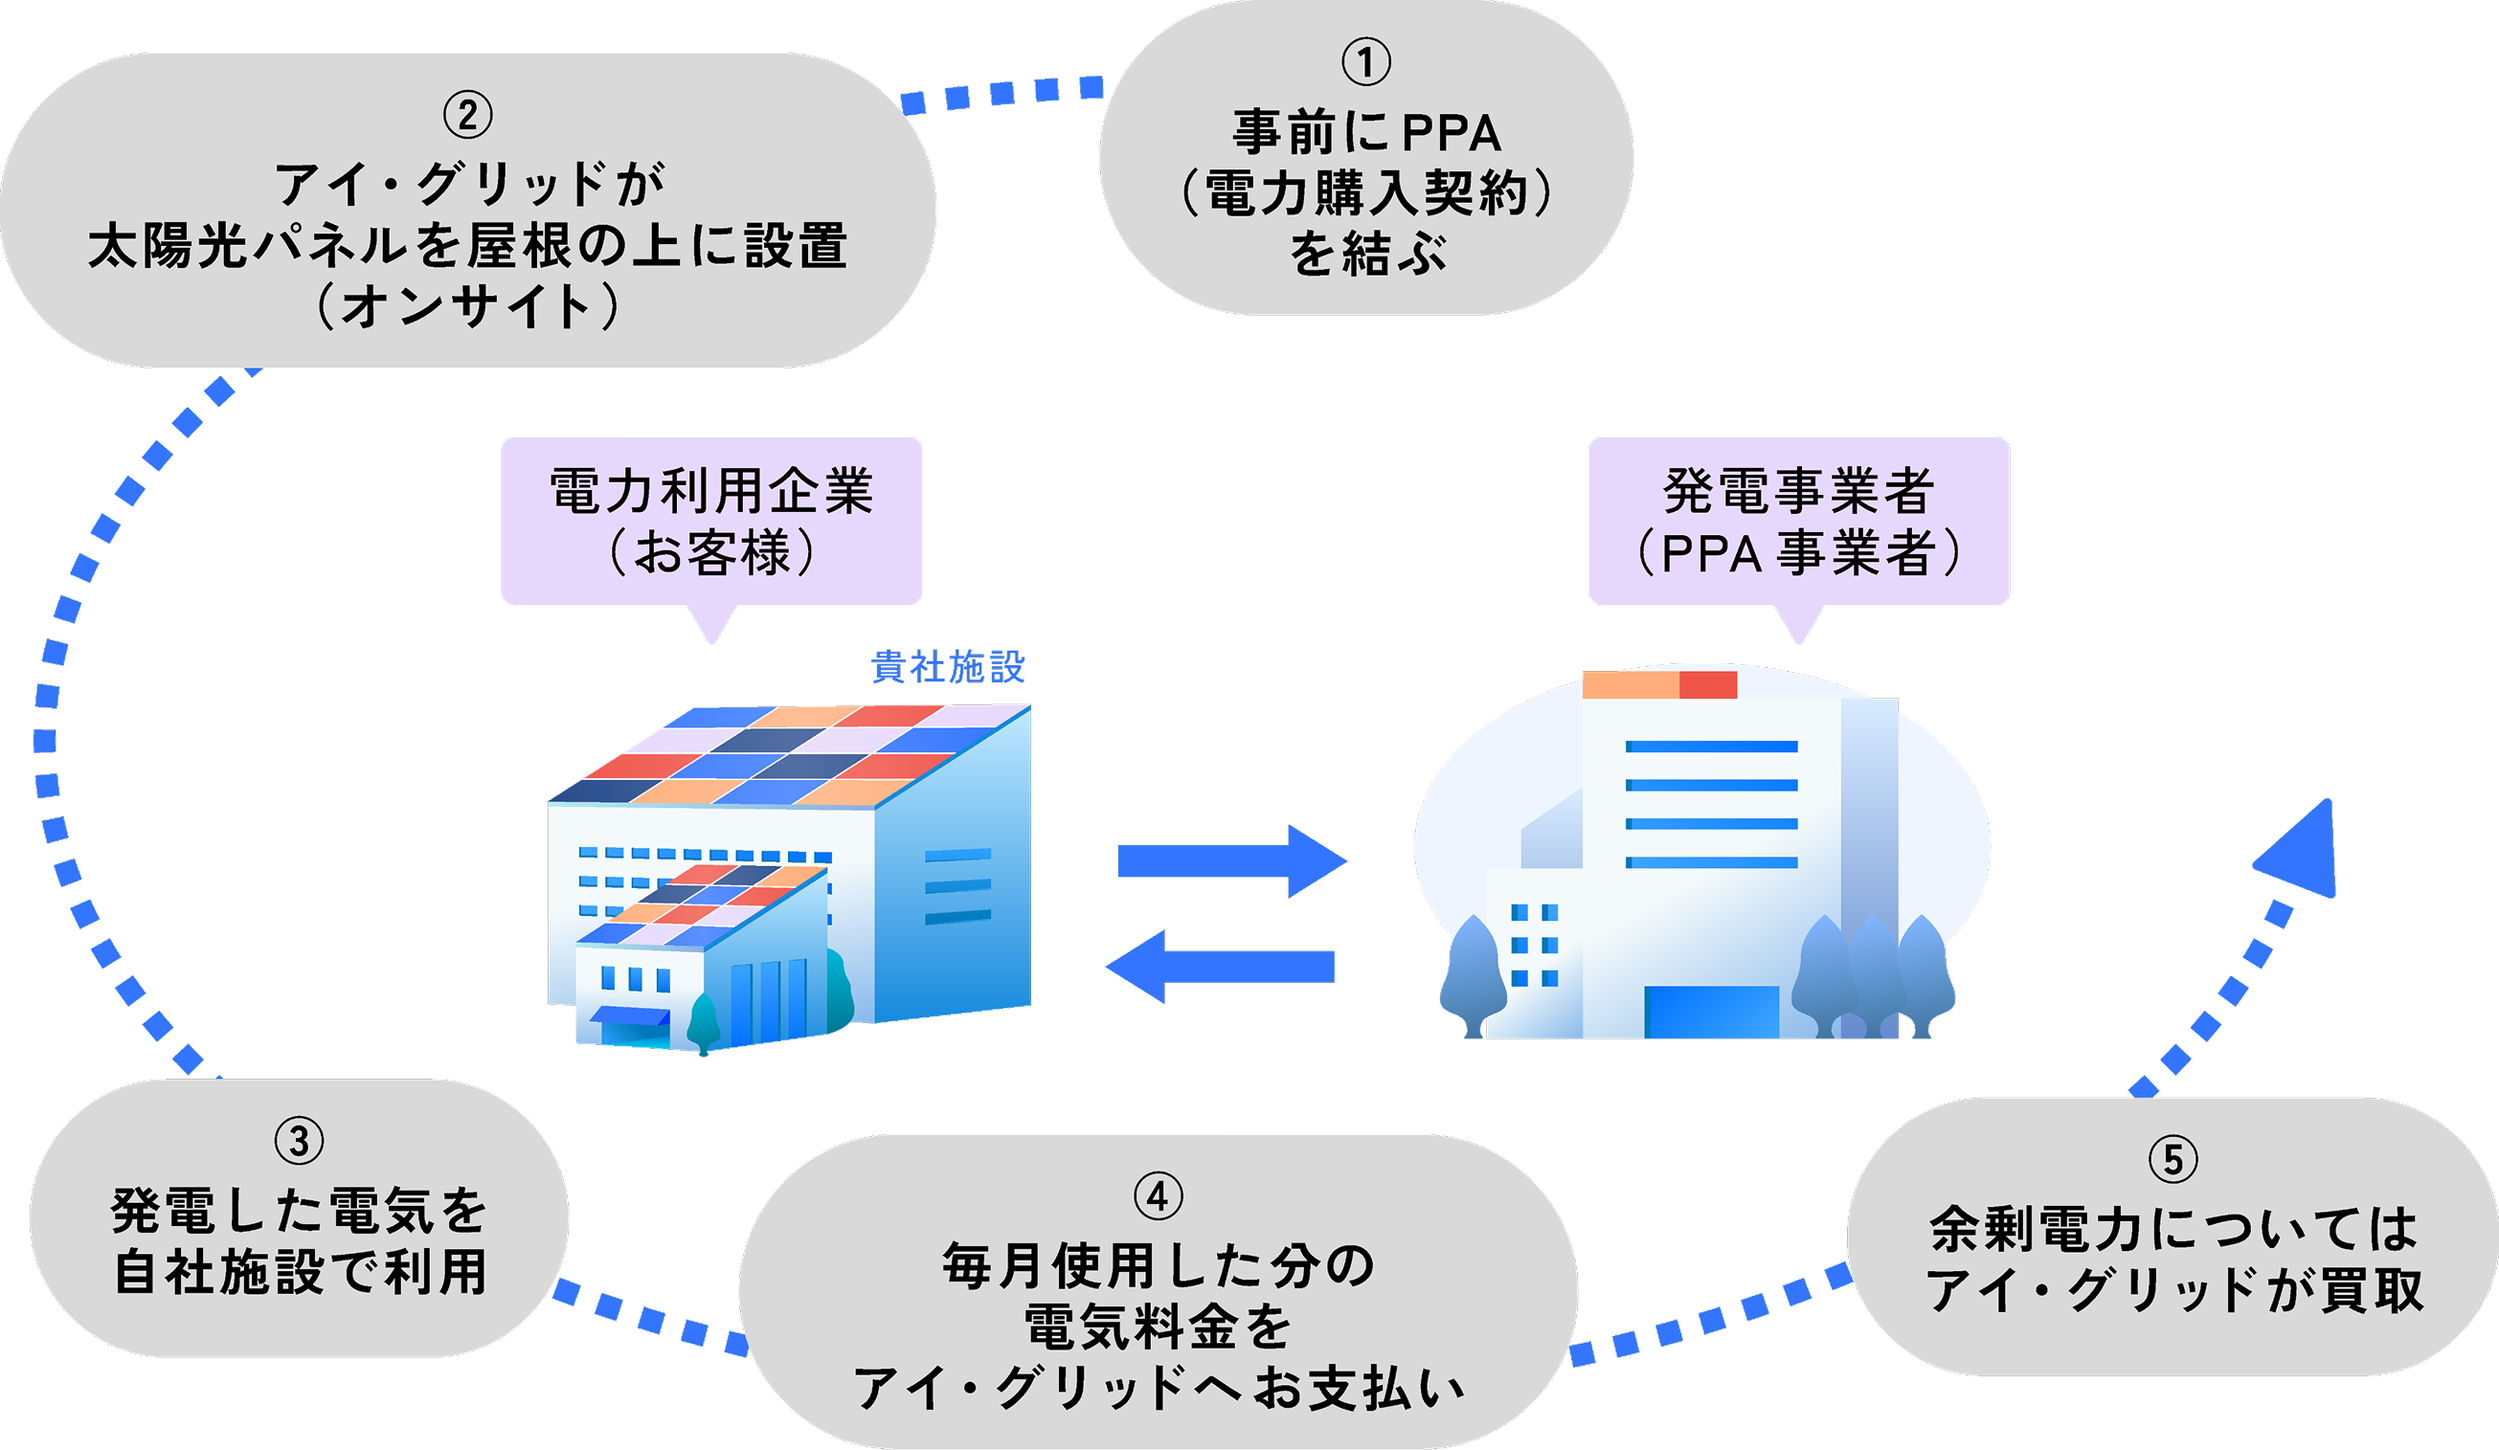
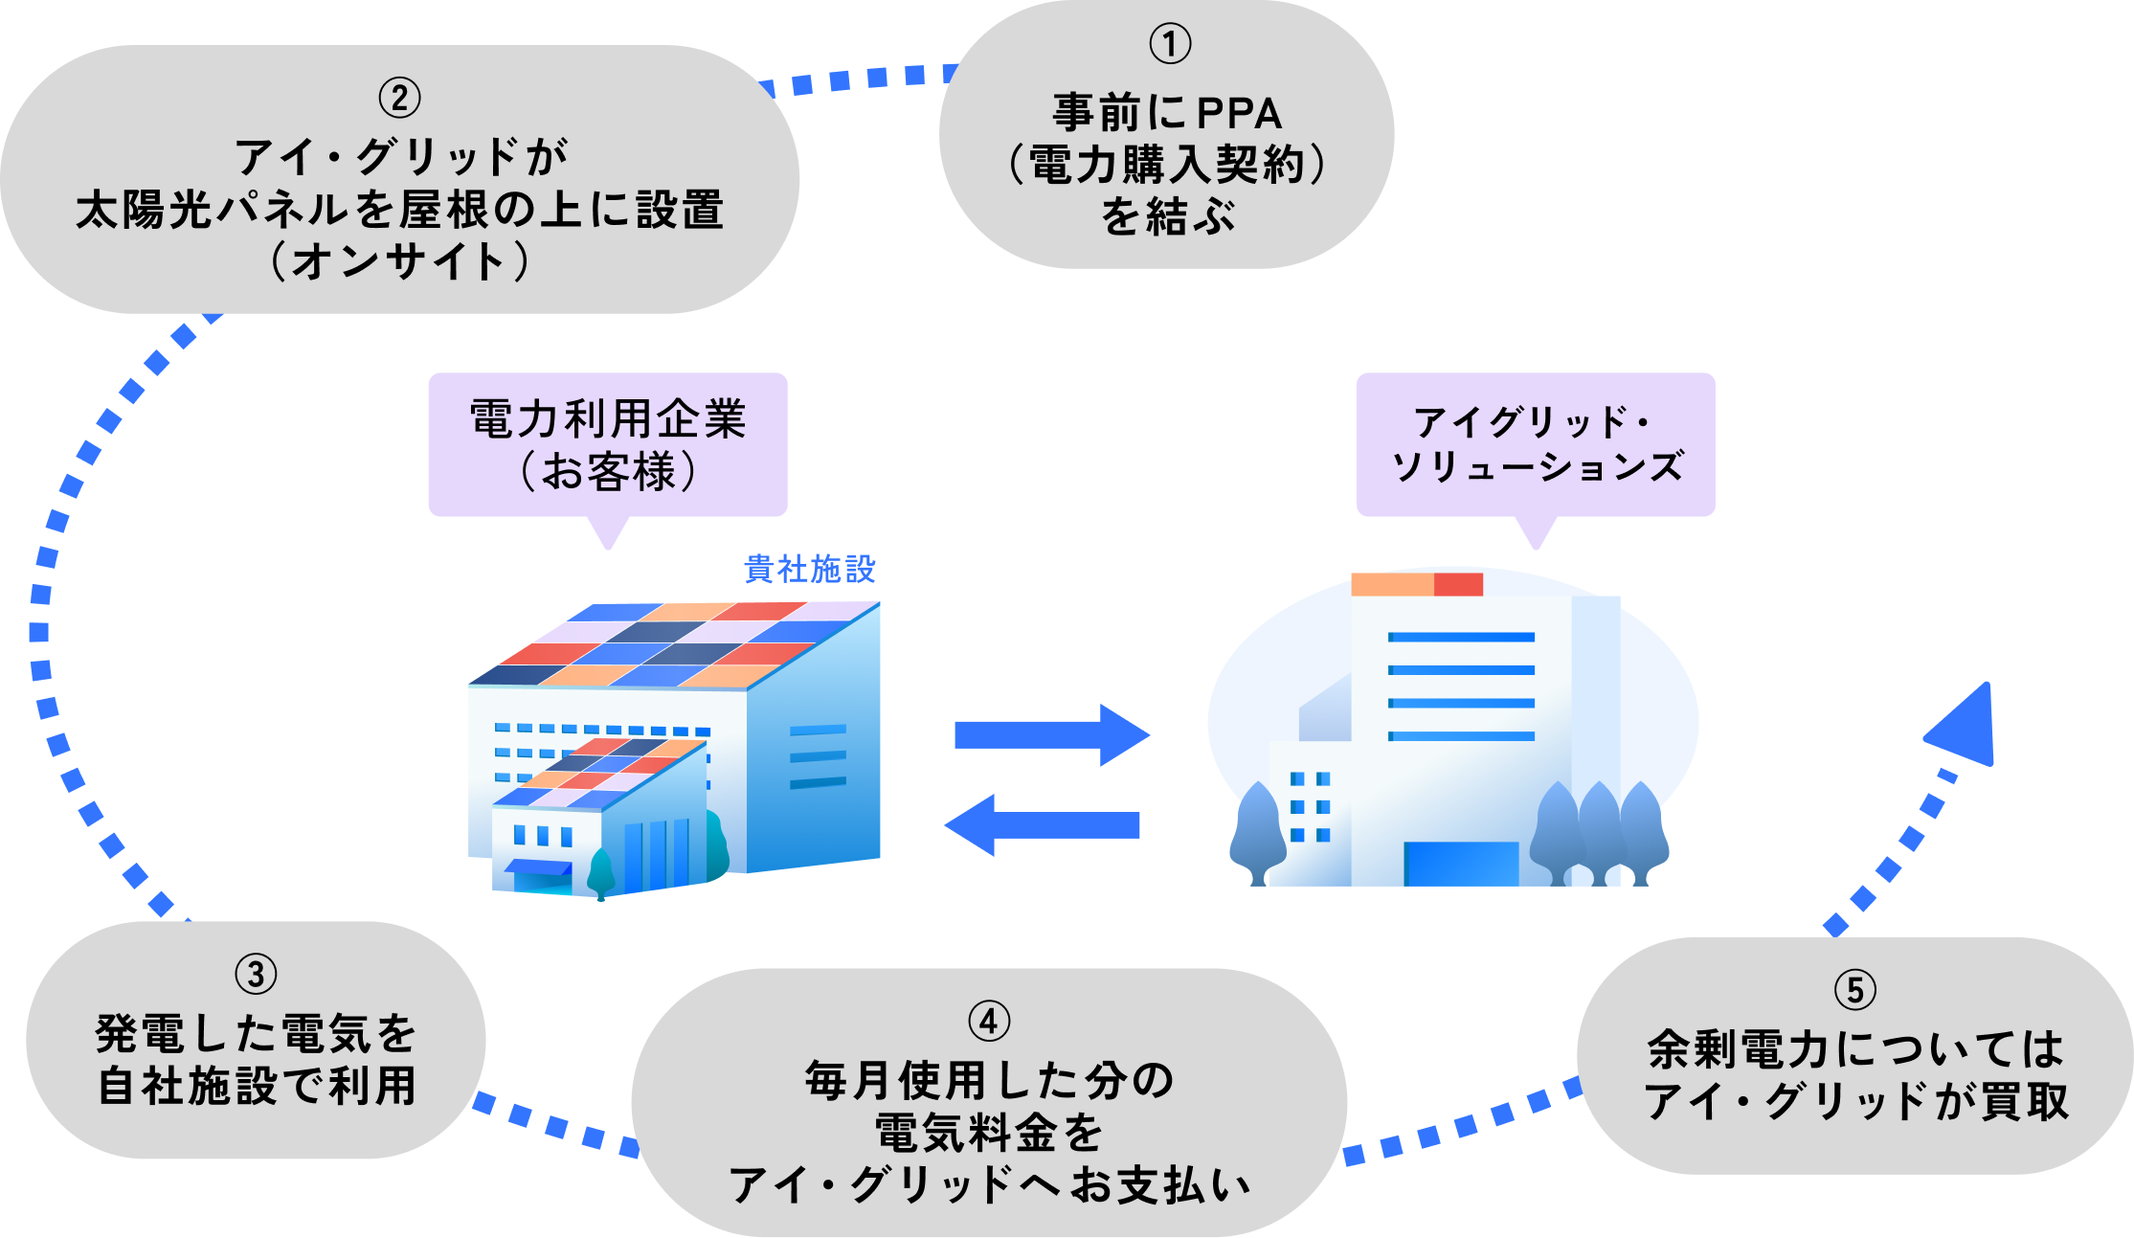
Make shikumi diagram full-bleed on SP layout

diff --git a/css/style.css b/css/style.css
@@ -956,6 +956,14 @@ p { margin: 0; }
   .merit-box { width: 100%; }
   .shikumi__detail { flex-direction: column; padding: 20px; }
 
+  .shikumi__diagram {
+    width: calc(100% + 36px);
+    max-width: none;
+    margin-left: -18px;
+    margin-right: -18px;
+    border-radius: 0;
+  }
+
   .point-grid { grid-template-columns: 1fr; }
   .point-card__head--tall { min-height: 0; }
 
